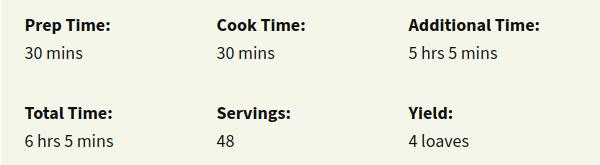
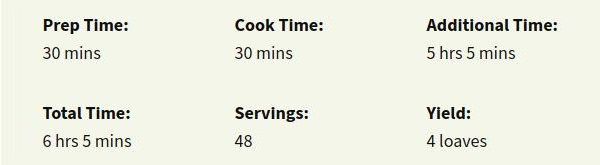
[PROJ-OR/cont-COR] Add style for index.html, trans
Project styling. Transf. classes, selecting individual/common classes.

Foundation(s) path

diff --git a/Foundations/projects/odin-recipes/recipes/julekake.html b/Foundations/projects/odin-recipes/recipes/julekake.html
@@ -8,94 +8,71 @@
   <link rel="shortcut icon" href="../images/favicon_dish.png" type="image/png" sizes="32x32">
   <link rel="stylesheet" href="../css/normalize.css">
   <link rel="stylesheet" href="../css/style.css">
-
-  <style>
-    .dish__image-wrap {
-      position: relative;
-      width: 600px;
-      height: 450px;
-      cursor: help;
-    }
-
-    .dish__image-wrap::after {
-      content: "";
-      position: absolute;
-      top: 230px;
-      left: 350px;
-      display: none;
-      width: 600px;
-      height: 165px;
-      background: url("../images/hint_julekake.jpg") no-repeat center / contain;
-    }
-
-    .dish__image-wrap:hover::after {
-      display: block;
-    }
-  </style>
 </head>
 
 <body class="page">
   <div class="page__container">
     <h1 class="page__title">Julekake</h1>
-    <div class="dish page__dish">
-      <div class="dish__image-wrap">
-        <img class="dish__image" src="../images/julekake.jpg" width="600" height="450" alt="Photo: Julekake">
+    <div class="julekake page__dish">
+      <div class="image-wrap julekake__image-wrap">
+        <img class="image julekake__image" src="../images/julekake.jpg" width="600" height="450" alt="Photo: Julekake">
       </div>
-      <div class="description desc dish__desc-wrap">
-        <h2 class="desc__heading">Description</h2>
-        <p class="desc__text">Mm-hmm.. Christmas bread with candied fruits and a yummy cardamom flavor.</p>
+      <div class="desc-wrap julekake__desc-wrap">
+        <h2 class="heading julekake__heading">Description</h2>
+        <p class="text julekake__text">Mm-hmm.. Christmas bread with candied fruits and a yummy cardamom flavor.</p>
       </div>
-      <div class="ingredients ing dish__ing-wrap">
-        <h2 class="ing__heading">Ingredients</h2>
-        <ul class="ing__list">
-          <li class="ing__item">2 (.25 ounce) packages active dry yeast</li>
-          <li class="ing__item">½ cup warm water (110 degrees F/45 degrees C)</li>
-          <li class="ing__item">2 cups cold milk</li>
-          <li class="ing__item">1 cup white sugar</li>
-          <li class="ing__item">1 cup butter, melted</li>
-          <li class="ing__item">2 teaspoons salt</li>
-          <li class="ing__item">8 ½ cups all-purpose flour, divided</li>
-          <li class="ing__item">1 cup golden raisins</li>
-          <li class="ing__item">½ cup candied cherries, sliced</li>
-          <li class="ing__item">½ cup chopped candied citron</li>
-          <li class="ing__item">1 tablespoon ground cardamom</li>
-          <li class="ing__item">1 large egg white, beaten</li>
+      <div class="ingredients julekake__ing-wrap">
+        <h2 class="ing-heading julekake__ing-heading">Ingredients</h2>
+        <ul class="ing-list julekake__ing-list">
+          <li class="ing-item julekake__ing-item">2 (.25 ounce) packages active dry yeast</li>
+          <li class="ing-item julekake__ing-item">½ cup warm water (110 degrees F/45 degrees C)</li>
+          <li class="ing-item julekake__ing-item">2 cups cold milk</li>
+          <li class="ing-item julekake__ing-item">1 cup white sugar</li>
+          <li class="ing-item julekake__ing-item">1 cup butter, melted</li>
+          <li class="ing-item julekake__ing-item">2 teaspoons salt</li>
+          <li class="ing-item julekake__ing-item">8 ½ cups all-purpose flour, divided</li>
+          <li class="ing-item julekake__ing-item">1 cup golden raisins</li>
+          <li class="ing-item julekake__ing-item">½ cup candied cherries, sliced</li>
+          <li class="ing-item julekake__ing-item">½ cup chopped candied citron</li>
+          <li class="ing-item julekake__ing-item">1 tablespoon ground cardamom</li>
+          <li class="ing-item julekake__ing-item">1 large egg white, beaten</li>
         </ul>
       </div>
-      <div class="steps stp dish__stp-wrap">
-        <h2 class="stp__heading">Steps</h2>
-        <ol class="stp__list">
-          <li class="stp__item">
-            <p class="stp__item-text">Dissolve yeast in warm water.</p>
+      <div class="steps julekake__stp-wrap">
+        <h2 class="stp-heading julekake__stp-heading">Steps</h2>
+        <ol class="stp-list julekake__stp-list">
+          <li class="stp-item julekake__stp-item">
+            <p class="stp-text julekake__stp-text">Dissolve yeast in warm water.</p>
           </li>
-          <li class="stp__item">
-            <p class="stp__item-text">Pour cold milk into a wide, shallow, heavy-bottomed saucepan. Heat over medium
-              heat, stirring frequently, until small bubbles appear around the outside of the saucepan.</p>
+          <li class="stp-item julekake__stp-item">
+            <p class="stp-text julekake__stp-text">Pour cold milk into a wide, shallow, heavy-bottomed saucepan. Heat
+              over medium heat, stirring frequently, until small bubbles appear around the outside of the saucepan.</p>
           </li>
-          <li class="stp__item">
-            <p class="stp__item-text">Remove from the heat and transfer to a large bowl. Stir in sugar, melted butter,
-              and salt; let sit until lukewarm, 5 to 10 minutes.</p>
+          <li class="stp-item julekake__stp-item">
+            <p class="stp-text julekake__stp-text">Remove from the heat and transfer to a large bowl. Stir in sugar,
+              melted butter, and salt; let sit until lukewarm, 5 to 10 minutes.</p>
           </li>
-          <li class="stp__item">
-            <p class="stp__item-text">Add yeast mixture, then stir in 4 cups flour. Cover and let rise in a warm place
-              until doubled in size, about 2 hours.</p>
+          <li class="stp-item julekake__stp-item">
+            <p class="stp-text julekake__stp-text">Add yeast mixture, then stir in 4 cups flour. Cover and let rise in a
+              warm place until doubled in size, about 2 hours.</p>
           </li>
-          <li class="stp__item">
-            <p class="stp__item-text">Punch down dough. Stir in raisins, cherries, citron, and cardamom. Work in
-              remaining 4 1/2 cups flour until a soft dough forms. Cover and let rise in a warm place until doubled in
-              size, 2 to 3 hours.</p>
+          <li class="stp-item julekake__stp-item">
+            <p class="stp-text julekake__stp-text">Punch down dough. Stir in raisins, cherries, citron, and cardamom.
+              Work in remaining 4 1/2 cups flour until a soft dough forms. Cover and let rise in a warm place until
+              doubled in size, 2 to 3 hours.</p>
           </li>
-          <li class="stp__item">
-            <p class="stp__item-text">Knead dough slightly on a lightly floured surface. Divide into fourths and form
-              into round loaves. Place loaves onto greased cookie sheets. Cover and let rise in a warm place until
-              doubled in size, 1 to 2 hours.</p>
+          <li class="stp-item julekake__stp-item">
+            <p class="stp-text julekake__stp-text">Knead dough slightly on a lightly floured surface. Divide into
+              fourths and form into round loaves. Place loaves onto greased cookie sheets. Cover and let rise in a warm
+              place until doubled in size, 1 to 2 hours.</p>
           </li>
-          <li class="stp__item">
-            <p class="stp__item-text">Preheat the oven to 350 degrees F (175 degrees C). Brush loaves with egg white.
+          <li class="stp-item julekake__stp-item">
+            <p class="stp-text julekake__stp-text">Preheat the oven to 350 degrees F (175 degrees C). Brush loaves with
+              egg white.
             </p>
           </li>
-          <li class="stp__item">
-            <p class="stp__item-text">Bake in the preheated oven until golden brown, 30 to 40 minutes.</p>
+          <li class="stp-item julekake__stp-item">
+            <p class="stp-text julekake__stp-text">Bake in the preheated oven until golden brown, 30 to 40 minutes.</p>
           </li>
         </ol>
       </div>

diff --git a/Foundations/projects/odin-recipes/css/global-page.css b/Foundations/projects/odin-recipes/css/global-page.css
@@ -1,3 +1,5 @@
+/* global */
+
 html {
   box-sizing: border-box;
 }
@@ -15,6 +17,14 @@ body {
 a {
   text-decoration: none;
 }
+
+.list-reset {
+  margin: 0;
+  padding: 0;
+  list-style: none;
+}
+
+/* page */
 
 .page {
   min-width: 576px;
@@ -57,10 +67,40 @@ a {
   width: 200px;
   height: 200px;
   background: url("../images/odin_bg_2.png") no-repeat center / contain;
+  transition-property: cursor, transform;
+  transition-duration: 0.3s;
+  transition-timing-function: ease-in-out;
 }
 
-.list-reset {
-  margin: 0;
-  padding: 0;
-  list-style: none;
+.page__bg-main:hover {
+  cursor: help;
+  transform: scale(1.1);
+}
+
+/* common */
+
+.image-wrap {
+  position: relative;
+  width: 600px;
+  height: 450px;
+  cursor: help;
+}
+
+.image-wrap::after {
+  content: "";
+  position: absolute;
+  top: 230px;
+  left: 350px;
+  display: none;
+  width: 600px;
+  height: 165px;
+}
+
+.image-wrap:hover::after {
+  display: block;
+}
+
+.image {
+  border-radius: 50% 20% / 10% 40%;
+  /* outline: 2px solid rgb(36, 105, 209); */
 }

diff --git a/Foundations/projects/odin-recipes/css/julekake.css b/Foundations/projects/odin-recipes/css/julekake.css
@@ -1,0 +1,4 @@
+.julekake__image-wrap::after {
+  border-radius: 10px 50px / 120px;
+  background: url("../images/hint_julekake.jpg") no-repeat center / contain;
+}

diff --git a/Foundations/projects/odin-recipes/css/style.css b/Foundations/projects/odin-recipes/css/style.css
@@ -1,3 +1,4 @@
 @import url("fonts.css");
 @import url("global-page.css");
 @import url("list-dish.css");
+@import url("julekake.css");

diff --git a/README.md b/README.md
@@ -1,4 +1,5 @@
 # The_Odin_Project
+
 ..Hugin and Munin ..Hello Odin!
 
 ### On this path:
